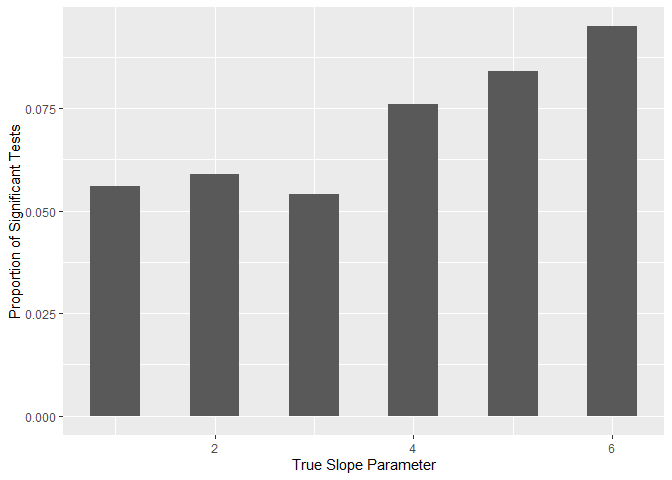
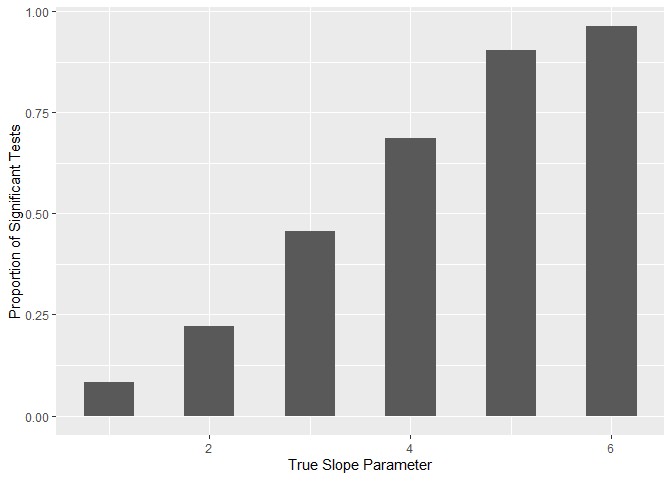
final draft corrected

diff --git a/hw5.md b/hw5.md
@@ -74,6 +74,7 @@ Problem 3
 ---------
 
 ``` r
+set.seed(10)
 #fix values
 n = 30
 b_0 = 2
@@ -83,7 +84,7 @@ x = rnorm(n)
 #define model and extract estimate and p-value
 model_generate = function(n , b_0, b_1, sig_2, x ) {
 
-  e = rnorm(n, sd = sig_2)
+  e = rnorm(n, sd = sqrt(sig_2))
   y = b_0 + b_1 * x + e
   results = lm(y~x)
   broom::tidy(results)[2, c(2, 5)]
@@ -108,12 +109,12 @@ sim_results(n, b_0, b_1 = 0, sig_2, x) %>%
     ## # A tibble: 6 x 2
     ##   estimate p.value
     ##      <dbl>   <dbl>
-    ## 1    14.3   0.207 
-    ## 2    15.3   0.208 
-    ## 3     3.08  0.720 
-    ## 4    19.7   0.144 
-    ## 5    20.6   0.0761
-    ## 6   -12.1   0.391
+    ## 1   -2.44   0.0895
+    ## 2   -1.54   0.316 
+    ## 3   -0.270  0.851 
+    ## 4    0.860  0.581 
+    ## 5   -1.83   0.209 
+    ## 6   -0.817  0.605
 
 ``` r
 #results for B0 in 1:6
@@ -128,6 +129,7 @@ results =
   select(-output_lists) %>%
   unnest(estimate_dfs) %>%
   as.data.frame() 
+
 
 #power plot
 results %>%
@@ -154,8 +156,7 @@ results %>%
   summarise(estimate_avg = mean(estimate)) %>%
   ggplot(aes(x = b_1, y = estimate_avg)) +
   geom_line(aes(color = "black")) +
-  geom_line(data = sig,
-            aes(color = "red")) +
+  geom_line(data = sig, aes(color = "red")) +
   scale_color_manual(name = "Results", 
                      values = c("black", "red"),
                      labels = c("Total", "Rejected")) +
@@ -165,4 +166,4 @@ results %>%
 
 ![](hw5_files/figure-markdown_github/unnamed-chunk-4-2.png)
 
-The two lines are different because the rejected samples contain estimated values that were significantly greater than our null value of 0. Therefore, the average estimated value among rejected samples is larger than the average among all samples.
+The two lines are different because the rejected samples contain estimated values that were significantly greater than our null value of 0. Therefore, the average estimated value among rejected samples is larger than the average among all samples. As the true beta 1 increases, the lines converge because more tests are rejected since the true beta 1 is further away from the null.
